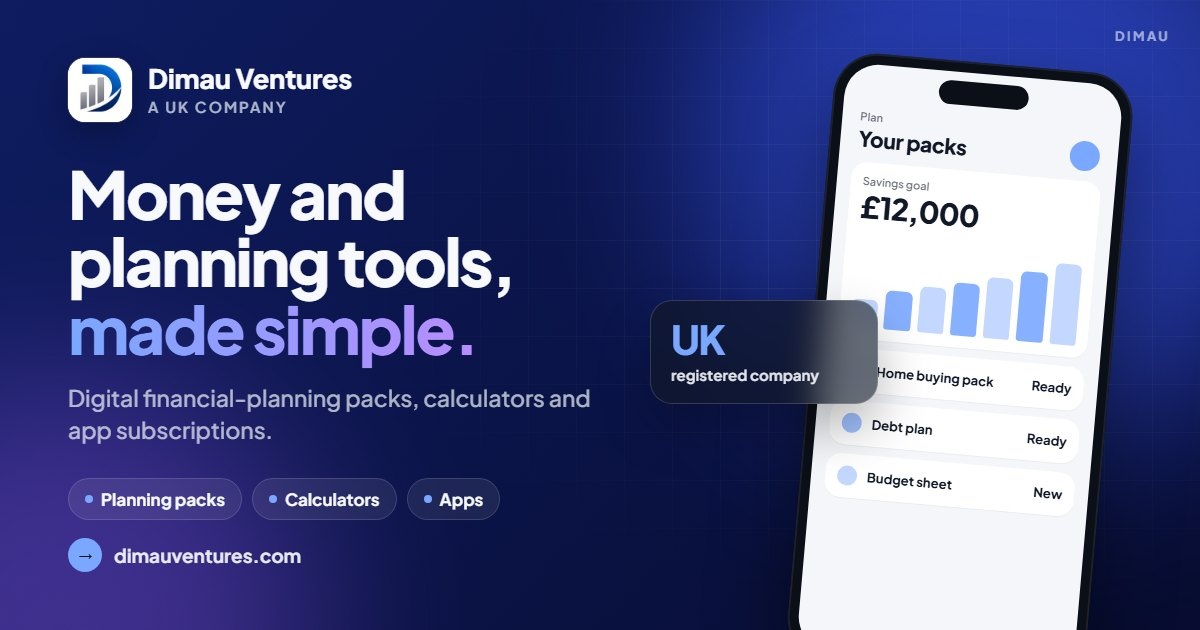
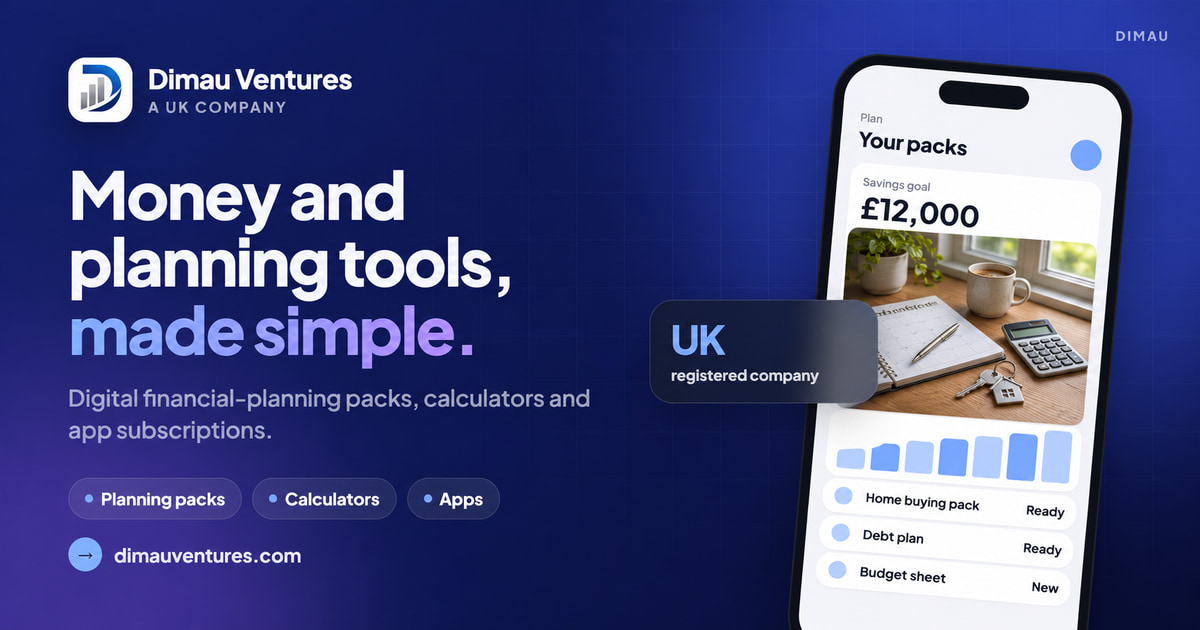
Use photorealistic images inside phone link previews

diff --git a/docs/phone-preview-photography-20261105.md b/docs/phone-preview-photography-20261105.md
@@ -1,0 +1,15 @@
+# Phone preview photography — 5 November 2026
+
+The existing link-preview artwork now includes app-relevant photorealistic imagery inside its phone display. These scenes were generated with the built-in image-generation tool and are illustrative, not documentary photographs or actual customer/property/transaction records. Original app identity, exterior copy, sample/demo qualifiers and meaningful screen figures were retained. Existing image URLs and metadata remain unchanged.
+
+Delivery: JPEG, 1200 × 630 pixels. Each image was visually reviewed and decoded successfully at the declared dimensions. The change does not modify application code, data or financial behavior. Production status is recorded separately on the pull request after checks and deployment.
+
+## og-dimau-ventures-premium-20261103.jpg
+
[1 lines of base64/hex data omitted]
+
+Exact generation prompt:
+
+```text
+Use case: precise-object-edit. Edit the attached existing complete link-preview image. Preserve its exact landscape 1200Ã—630 composition. Change ONLY content INSIDE the tilted mobile phone's display. Preserve outside the screen as faithfully as possible, including exact logo, all headline/copy/URL/labels, font sizes, colors, gradients, badges, positions, phone bezel and device tilt. Add high-quality photorealistic photography, matching the phone's perspective and rounded clipping. No cartoons, illustrations, stock watermarks, extra branding or new claims. Keep existing app controls and meaningful figures legible. Inside the phone add a substantial realistic planning photograph: a neat UK home desk with a paper planner, a simple calculator, house keys, a ceramic coffee mug and soft window light. Integrate it below 'Your packs', with original Â£12,000 savings-goal figure, compact bar chart and original ready pack rows still visible below. Photograph must be real materials, no financial logos, no added text. Keep exterior image entirely unchanged.
+```

diff --git a/TRACKER.md b/TRACKER.md
@@ -10,6 +10,7 @@
 - Live: https://dimauventures.com/
 
 ## Current state
+- 2026-11-05 photo revision: phone-preview photographs are prepared and locally verified; exact publication evidence belongs to the scoped PR.
 - Status: Live — Live — company site serving as Stripe business website (80% complete)
 - Next action: Add Companies House number to the site footer and Stripe once incorporation confirms; set up hello@dimauventures.com forwarding; swap Stripe payouts to Starling when the business account opens.
 - Blocker: none recorded
@@ -17,7 +18,6 @@
 ## In progress — claim a task here BEFORE you start it
 | Started | AI | Task | Branch / PR |
 |---|---|---|---|
-| 2026-11-05 | Codex | Replace phone-screen placeholders in link previews with photorealistic imagery | `codex/photorealistic-phone-previews-20261105` |
 
 ## Do not change
 - nothing recorded yet
@@ -27,6 +27,7 @@
 - Testing: not tested
 
 ## Done — newest first
+- 2026-11-05 — Codex — Replaced the existing phone-preview artwork with app-specific photorealistic imagery. Preserved exterior brand/copy, meaningful screen figures, sample/demo labels, existing asset URLs and all application code. JPEG decoding and 1200 × 630 dimensions pass; exact generation prompts and image hashes are in `docs/phone-preview-photography-20261105.md`. This records completed image preparation, not a production receipt.
 - 2026-11-04 — Codex — Completed scoped public preview metadata correction. Completed canonical and matching X preview details while retaining the original app-specific 1200 by 630 artwork and all page body bytes. Source whitespace checks pass; host gates and exact hosted evidence follow on this revision’s PR.
 - 2026-11-01 — claude — Count visits on the Ops Room (Fiji Analytics tag, no cookies) — 1 file(s) on main: index.html
 - 2026-11-01 — claude — Proper 1200x630 link-preview picture (was the 160px logo, blurry when shared) — 2 file(s) on main: og-dimau-ventures.jpg, index.html
